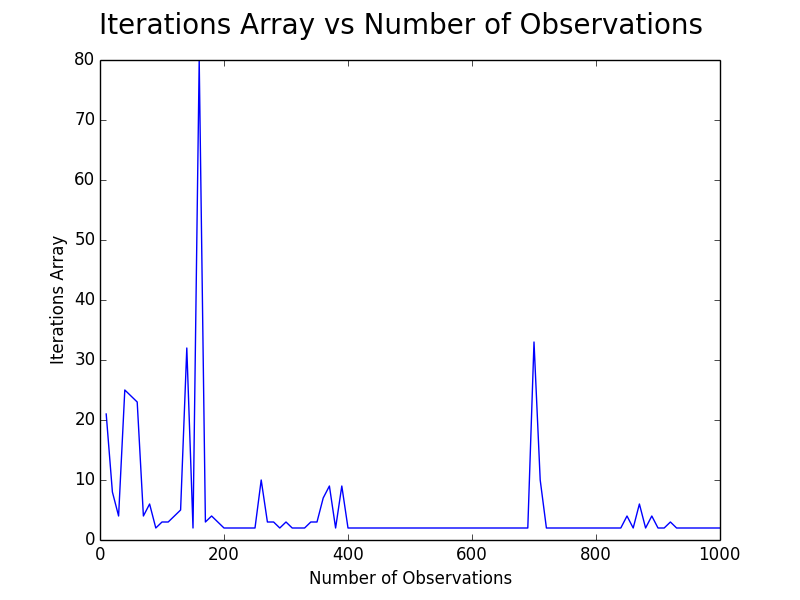
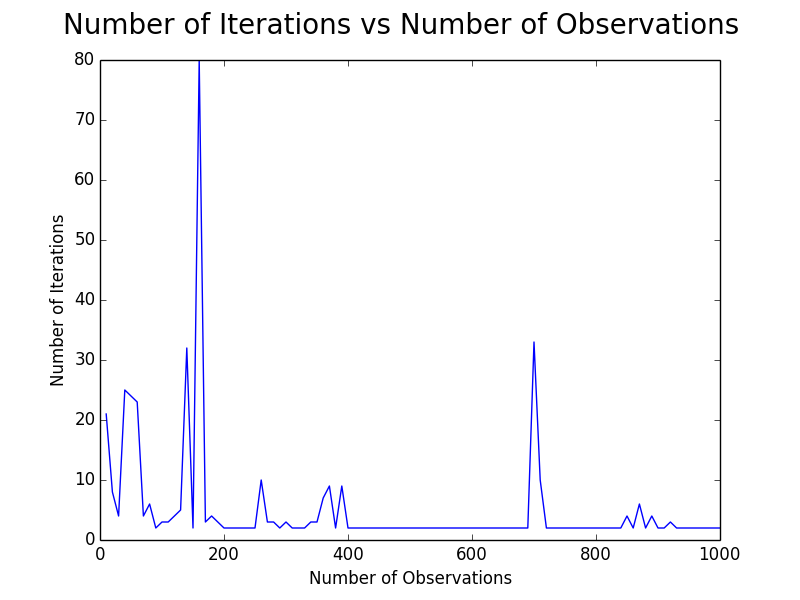
Figure iterations updated

Changed region(s): [[0.0625, 0.0, 0.9375, 0.06], [0.0625, 0.36, 0.0938, 0.66]]

diff --git a/A1/HMM/plot.py b/A1/HMM/plot.py
@@ -11,8 +11,8 @@ plt.show()
 fig = plt.figure()
 plt.plot([10, 20, 30, 40, 50, 60, 70, 80, 90, 100, 110, 120, 130, 140, 150, 160, 170, 180, 190, 200, 210, 220, 230, 240, 250, 260, 270, 280, 290, 300, 310, 320, 330, 340, 350, 360, 370, 380, 390, 400, 410, 420, 430, 440, 450, 460, 470, 480, 490, 500, 510, 520, 530, 540, 550, 560, 570, 580, 590, 600, 610, 620, 630, 640, 650, 660, 670, 680, 690, 700, 710, 720, 730, 740, 750, 760, 770, 780, 790, 800, 810, 820, 830, 840, 850, 860, 870, 880, 890, 900, 910, 920, 930, 940, 950, 960, 970, 980, 990, 1000], [21.0, 8.0, 4.0, 25.0, 24.0, 23.0, 4.0, 6.0, 2.0, 3.0, 3.0, 4.0, 5.0, 32.0, 2.0, 80.0, 3.0, 4.0, 3.0, 2.0, 2.0, 2.0, 2.0, 2.0, 2.0, 10.0, 3.0, 3.0, 2.0, 3.0, 2.0, 2.0, 2.0, 3.0, 3.0, 7.0, 9.0, 2.0, 9.0, 2.0, 2.0, 2.0, 2.0, 2.0, 2.0, 2.0, 2.0, 2.0, 2.0, 2.0, 2.0, 2.0, 2.0, 2.0, 2.0, 2.0, 2.0, 2.0, 2.0, 2.0, 2.0, 2.0, 2.0, 2.0, 2.0, 2.0, 2.0, 2.0, 2.0, 33.0, 10.0, 2.0, 2.0, 2.0, 2.0, 2.0, 2.0, 2.0, 2.0, 2.0, 2.0, 2.0, 2.0, 2.0, 4.0, 2.0, 6.0, 2.0, 4.0, 2.0, 2.0, 3.0, 2.0, 2.0, 2.0, 2.0, 2.0, 2.0, 2.0, 2.0])
 plt.plot([], 'ro')
-fig.suptitle('Iterations Array vs Number of Observations', fontsize=20)
-plt.ylabel('Iterations Array')
+fig.suptitle('Number of Iterations vs Number of Observations', fontsize=20)
+plt.ylabel('Number of Iterations')
 plt.xlabel('Number of Observations')
 plt.show()
 
